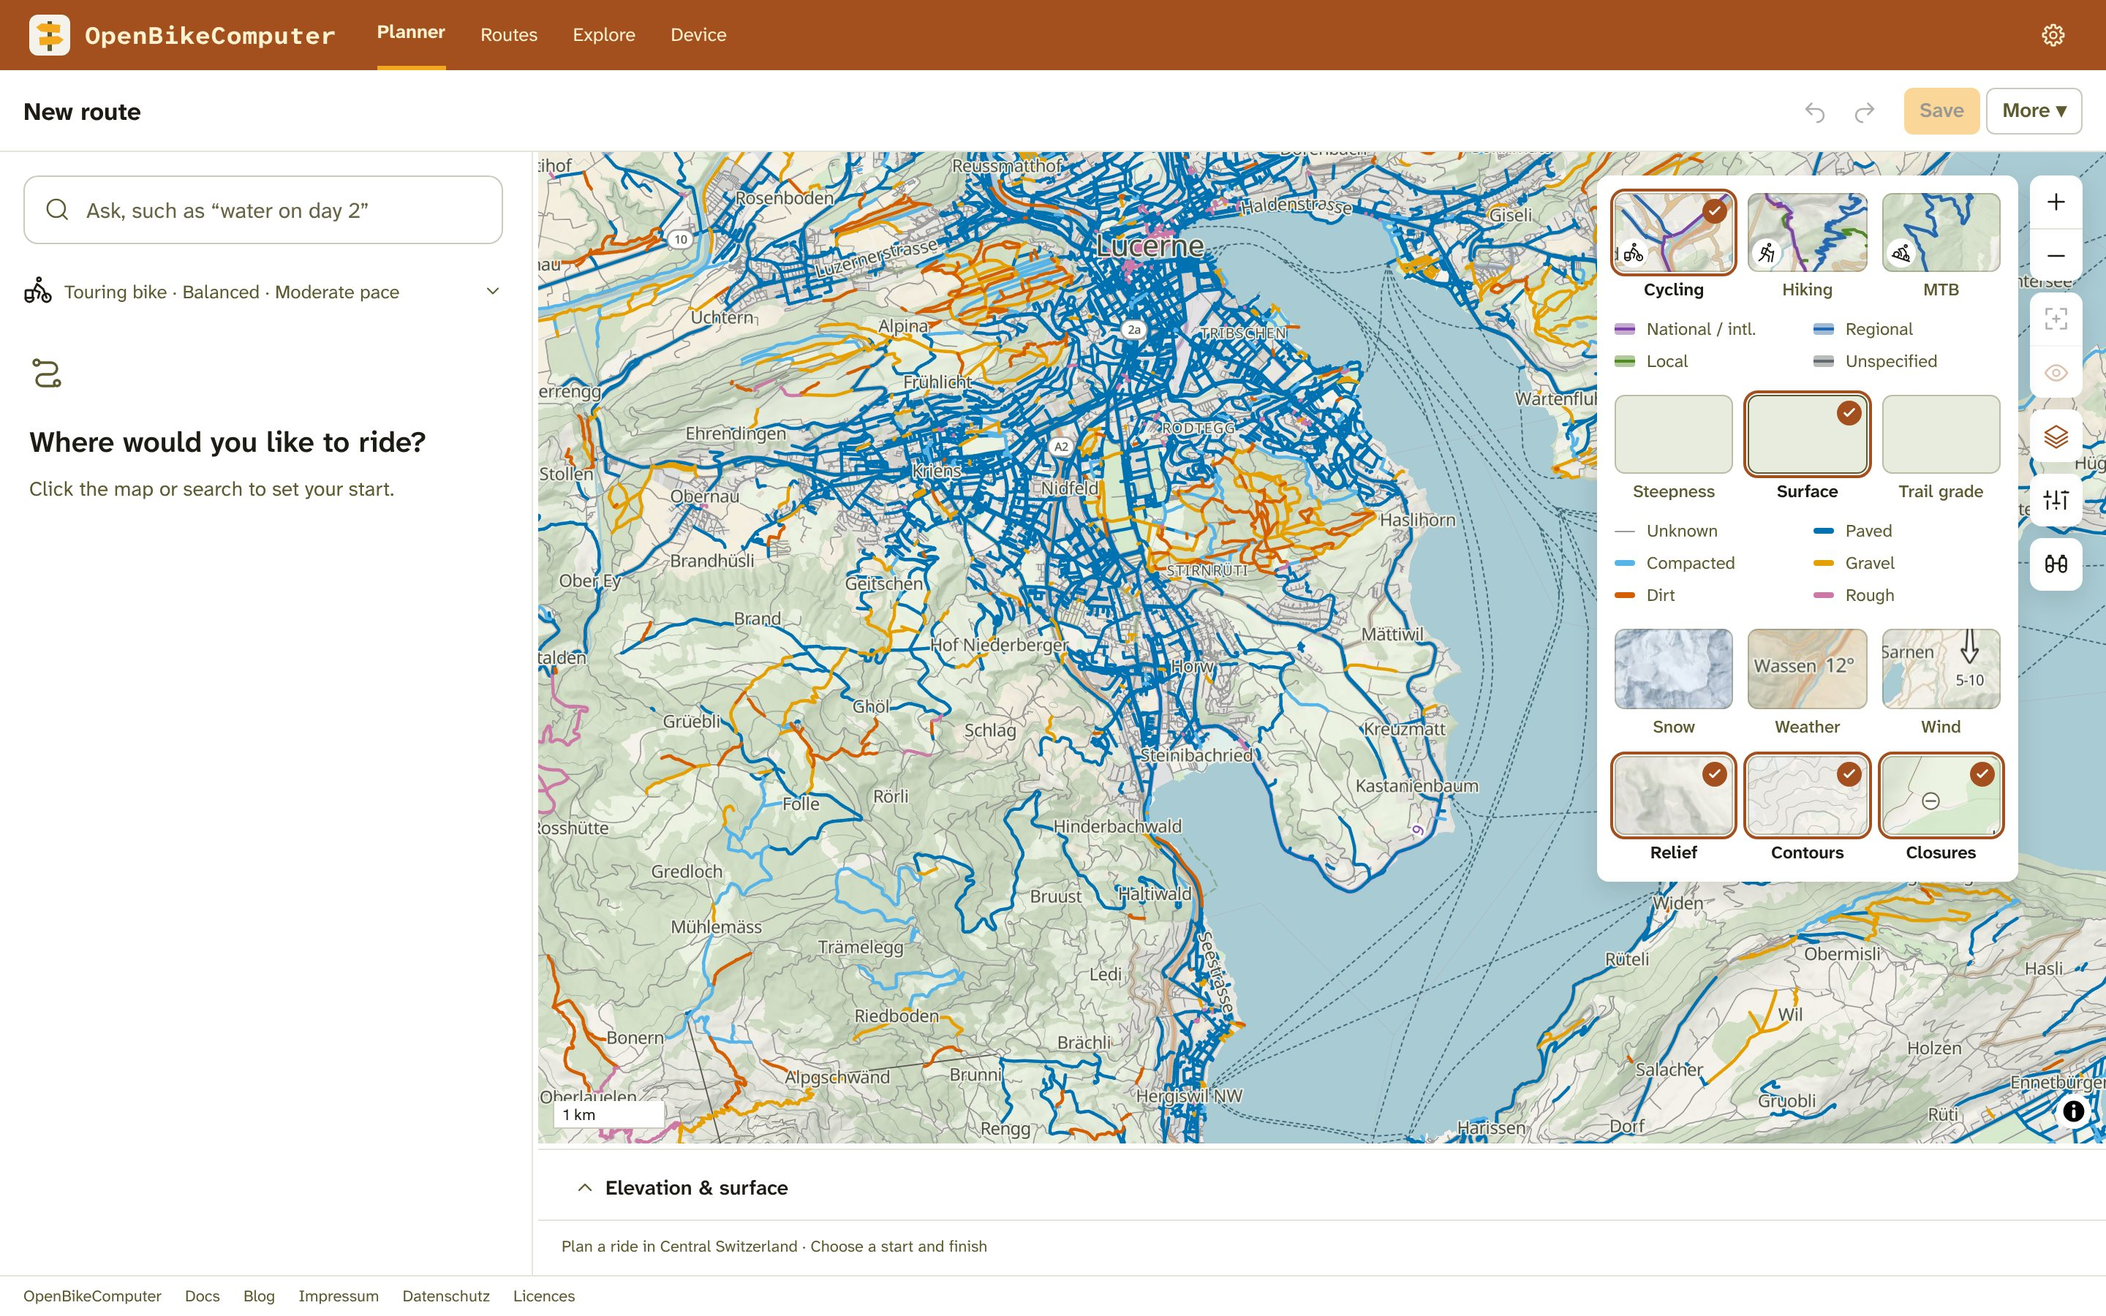
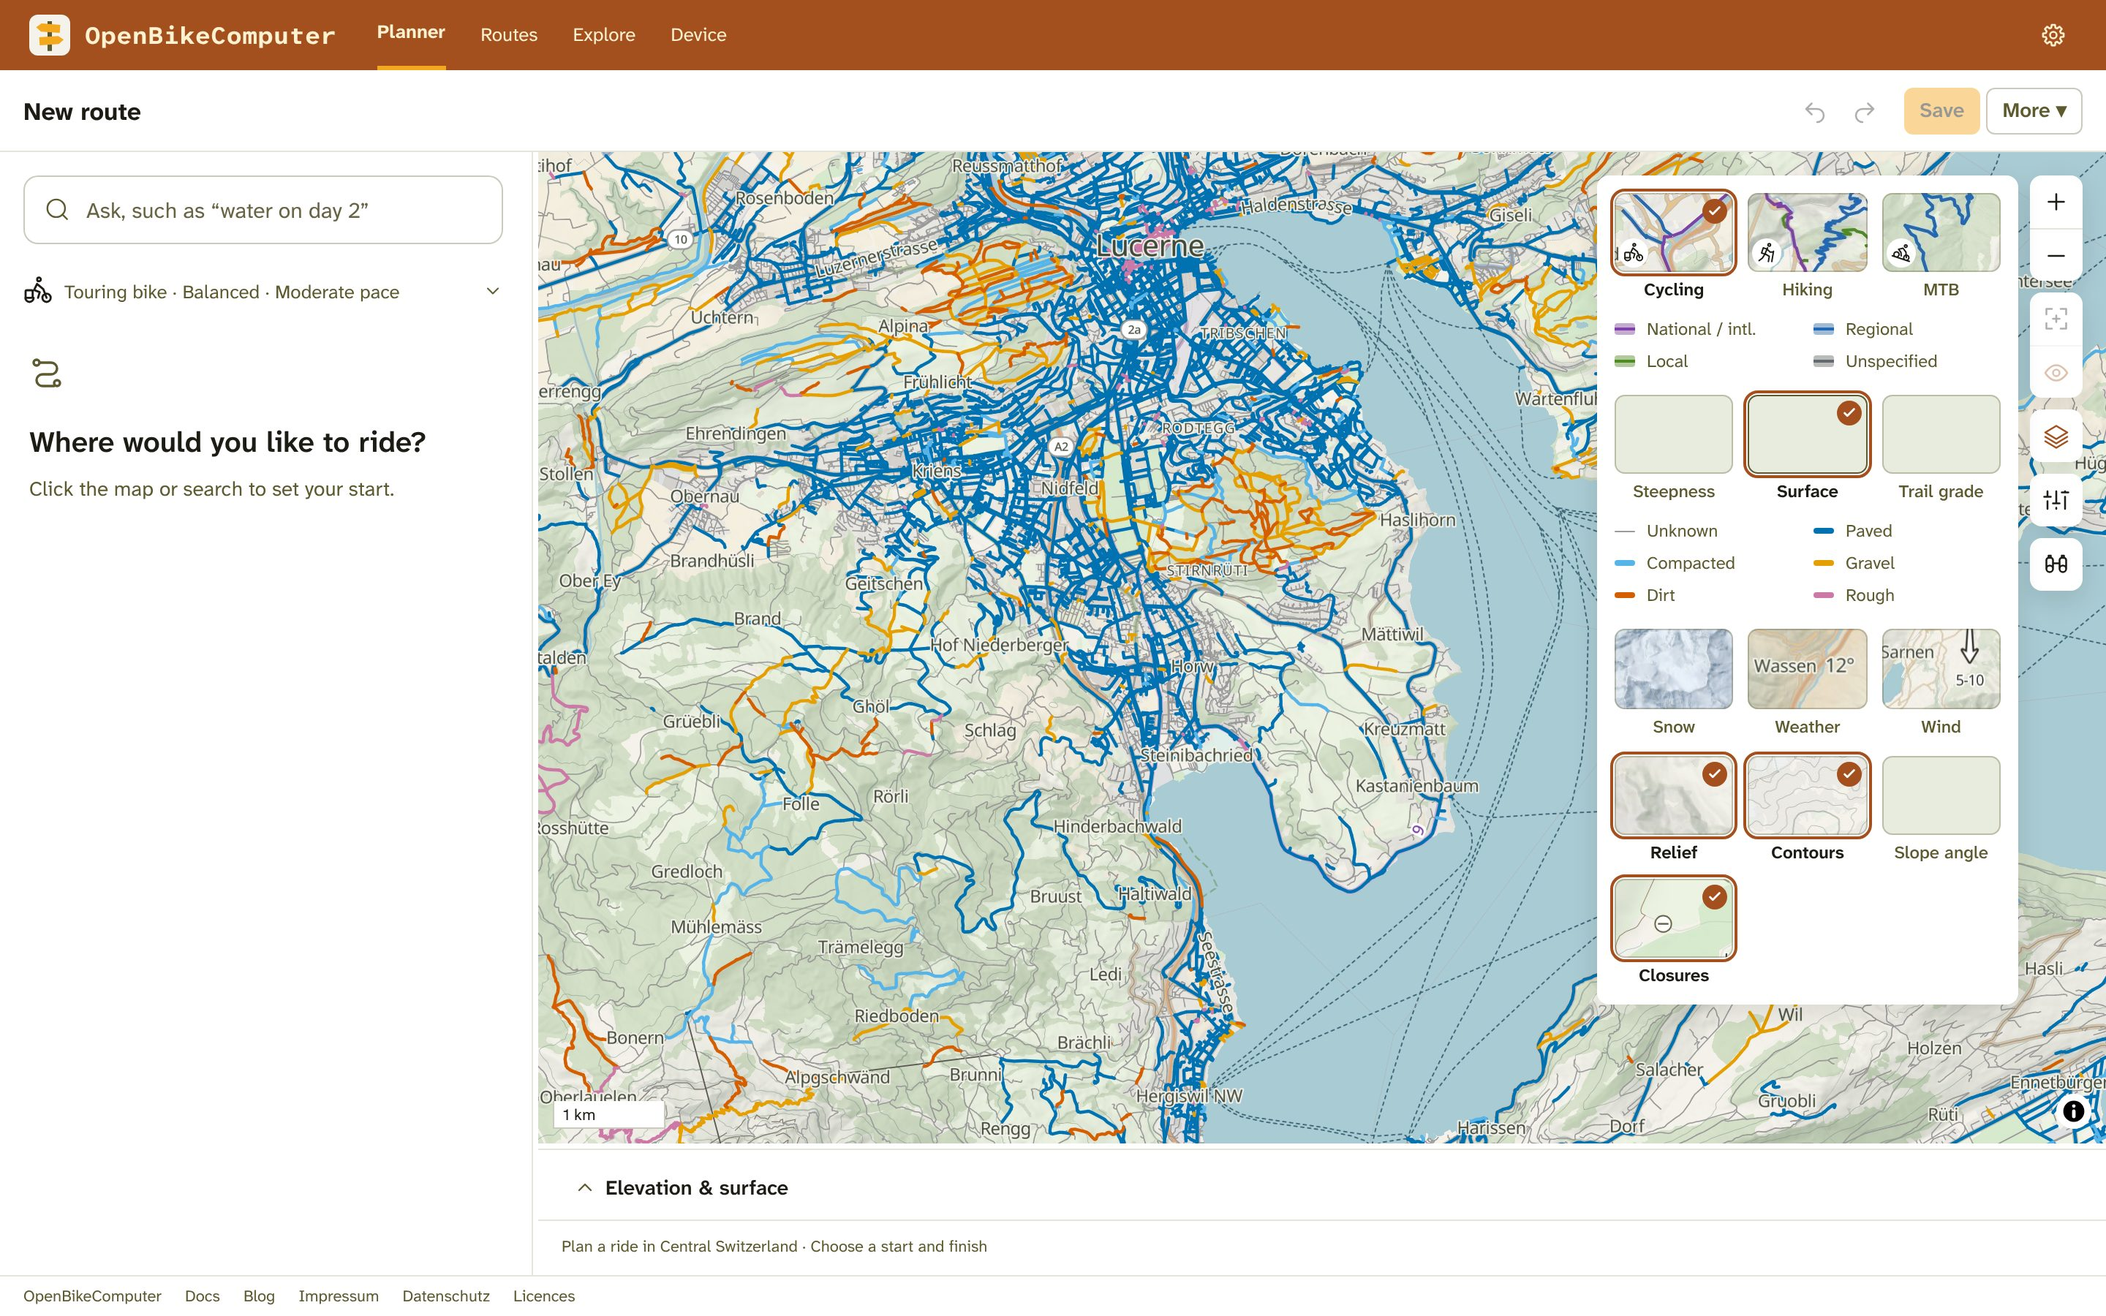
prototype: slope angle of the terrain, and road slope from the release terrain
Both read the planner release's Terrarium tiles at zoom 12 (swissALTI3D in
Switzerland) instead of Copernicus GLO-30.

Claude-Session: https://claude.ai/code/session_01Wqws1c9uQRBGGaaPm62HMf

Changed region(s): [[0.75, 0.6222, 0.9688, 0.7778], [0.9062, 0.56, 0.9688, 0.6222]]

diff --git a/builder/web/src/components/planner/PlannerMap.svelte b/builder/web/src/components/planner/PlannerMap.svelte
@@ -17,7 +17,7 @@
     import { coordinateAt, kilometres, nearestOnScreen, nearestProgress, routeSlice } from "../../lib/planner/geo";
     import type { Coordinate, MapPoint, MapSegment, MapTown } from "../../lib/planner/map-types";
     import { grownHull, span } from "../../lib/planner/town-area";
-    import { syncRoadLayer, type RoadLayer } from "../../lib/planner/road-layers-prototype";
+    import { syncRoadLayer, syncSlopeAngle, type RoadLayer } from "../../lib/planner/road-layers-prototype";
     import type { BikeType } from "../../lib/planner/riding-profiles";
     import { RouteOverlays, type AccessMode, type OverlayOptions, type OverlaySelection, type RouteHint } from "../../lib/planner/route-overlays";
     import type { DataLayer } from "../../lib/planner/layers/data-layer";
@@ -32,7 +32,7 @@
         segments = [], gaps = [], coordinates = [], highlightedLines = [], points = [], selectedId = null, hoveredId = null, callout = null,
         drawing = null, highlightedPlaceIds = [], theme = "light", hillshade = true, contours = true, pickMode = false,
         showRoute = true, hoverProgress = null, center = [8.8, 48.65], zoom = 7,
-        placeKinds = [], highlightedKind = null, mapOverlays = { network: 'none', access: false }, roadLayer = '', bike = 'touring', accessMode = 'cycling', routingPackage, dataLayer, bottomInset = 0,
+        placeKinds = [], highlightedKind = null, mapOverlays = { network: 'none', access: false }, roadLayer = '', slopeAngle = false, bike = 'touring', accessMode = 'cycling', routingPackage, dataLayer, bottomInset = 0,
         lines = [], onPick = null, part = null, week = null, lit = null, towns = [], litStop = null,
         onStopHover, onStopOpen, onEmptyClick, onPointSelect, onPointHover, onPointMove, onPointPreview, onDayEndDrag, onLegClick, onInsert, onDrawn, onPlaceClick, onVisibleRange, onBounds, onRiderMove, onMoveStart, onRouteHover, onDayClick, popup,
     }: {
@@ -56,6 +56,7 @@
         placeKinds?: PlaceCategory[]; highlightedKind?: PlaceCategory | null;
         mapOverlays?: OverlayOptions;
         roadLayer?: RoadLayer | '';
+        slopeAngle?: boolean;
         bike?: BikeType;
         /** The region's data layers, the shown one if any, the layer date, and the shown layer's labels beside the overnight stops. */
         dataLayer?: { layers: DataLayer[]; shown?: DataLayer; date: string; notes?: { coordinate: Coordinate; text: string }[] };
@@ -714,6 +715,7 @@
     $effect(() => { const options = { ...mapOverlays }; const mode = accessMode; if (ready) { overlaySelection = null; overOverlay = false; overlayLayer?.set(options, mode); } });
     $effect(() => { void showRoute; if (ready) syncRouteVisibility(); });
     $effect(() => { const layer = roadLayer, look = theme, profile = bike; if (ready && map) syncRoadLayer(map, layer, look, profile); });
+    $effect(() => { const shown = slopeAngle; void theme; if (ready && map) syncSlopeAngle(map, shown); });
     $effect(() => { void lines; if (ready) (map?.getSource("lines") as GeoJSONSource | undefined)?.setData(linesData()); });
     function syncDataLayer() {
         if (!map || !dataLayer) return;

diff --git a/builder/web/src/components/planner/PlannerApp.svelte b/builder/web/src/components/planner/PlannerApp.svelte
@@ -151,6 +151,7 @@
     // The map shows one data layer at a time; '' shows none.
     let shownLayerId = $state('');
     let roadLayer = $state<RoadLayer | ''>('');
+    let slopeAngle = $state(false);
     const dataLayer = $derived(dataLayers.find(layer => layer.id === shownLayerId));
     let dateBarHeight = $state(0);
     // The layer date follows the trip start until the rider picks another day; it never changes the trip.
@@ -1315,7 +1316,7 @@
                 ondragleave={event => { if (!event.currentTarget.contains(event.relatedTarget as Node | null)) dropping = false; }}>
                 <PlannerMap
                     bind:this={map} {part} {segments} gaps={gaps.map(gap => gap.coordinates)} {coordinates} points={mapPoints} {selectedId} {hoveredId} onPointHover={(id) => hoveredId = id} callout={calloutCoordinate} {drawing}
-                    {theme} {hillshade} {contours} {mapOverlays} {roadLayer} {bike} dataLayer={{ layers: dataLayers, shown: dataLayer, date: shownDate, notes: layerNotes }} bottomInset={dataLayer ? dateBarHeight + 34 : 0} accessMode={trip.bike === 'hiking' ? 'walking' : 'cycling'} {showRoute} {hoverProgress} highlightedLines={highlighted} pickMode={picking} routingPackage={currentRoute?.package}
+                    {theme} {hillshade} {contours} {mapOverlays} {roadLayer} {slopeAngle} {bike} dataLayer={{ layers: dataLayers, shown: dataLayer, date: shownDate, notes: layerNotes }} bottomInset={dataLayer ? dateBarHeight + 34 : 0} accessMode={trip.bike === 'hiking' ? 'walking' : 'cycling'} {showRoute} {hoverProgress} highlightedLines={highlighted} pickMode={picking} routingPackage={currentRoute?.package}
                     onPick={mapMode?.kind === 'look' ? openTrailView : null}
                     highlightedPlaceIds={searching ? results.map(result => result.place.id) : []}
                     placeKinds={placeChoice.kinds} highlightedKind={placeChoice.highlight}
@@ -1365,7 +1366,7 @@
                         <button type="button" disabled={!trip.points.length} onclick={() => focusedDay ? showDay(focusedDay.number) : coordinates.length ? map?.fitRoute() : map?.fitCoordinates(trip.points.map(p => p.coordinate))} aria-label={focusedDay ? `Show day ${focusedDay.number} on map` : 'Show whole route'}><Icon name="fit" /></button>
                         <button type="button" disabled={!hasEndpoints} class:chosen={showRoute} aria-label={showRoute ? 'Hide route' : 'Show route'} aria-pressed={showRoute} onclick={() => showRoute = !showRoute}><Icon name="eye" /></button>
                     </div>
-                    <MapSettings {theme} {dataLayers} bind:shownLayer={shownLayerId} bind:roadLayer {bike} bind:mapOverlays bind:hillshade bind:contours />
+                    <MapSettings {theme} {dataLayers} bind:shownLayer={shownLayerId} bind:roadLayer bind:slopeAngle {bike} bind:mapOverlays bind:hillshade bind:contours />
                     <PlaceKinds />
                     {#if hasTrailView(config)}
                         <div class="control-group">

diff --git a/builder/web/src/components/planner/MapSettings.svelte b/builder/web/src/components/planner/MapSettings.svelte
@@ -3,11 +3,12 @@
     import MapControlPanel from './MapControlPanel.svelte';
     import { bandShare, networkLevels, type OverlayOptions } from '../../lib/planner/route-overlays';
     import type { DataLayer } from '../../lib/planner/layers/data-layer';
-    import { roadLayers, roadLegend, type RoadLayer } from '../../lib/planner/road-layers-prototype';
+    import { roadLayers, roadLegend, slopeAngleLegend, type RoadLayer } from '../../lib/planner/road-layers-prototype';
     import type { BikeType } from '../../lib/planner/riding-profiles';
 
-    let { hillshade = $bindable(), contours = $bindable(), mapOverlays = $bindable(), dataLayers = [], shownLayer = $bindable(''), roadLayer = $bindable(''), bike = 'touring', theme = 'light' }: {
+    let { hillshade = $bindable(), contours = $bindable(), mapOverlays = $bindable(), dataLayers = [], shownLayer = $bindable(''), roadLayer = $bindable(''), slopeAngle = $bindable(false), bike = 'touring', theme = 'light' }: {
         roadLayer?: RoadLayer | '';
+        slopeAngle?: boolean;
         bike?: BikeType;
         /** The data layers of the region; the map shows one or none. */
         dataLayers?: DataLayer[];
@@ -33,6 +34,7 @@
         { label: 'Map', tiles: [
             { id: 'relief', label: 'Relief', on: hillshade, toggle: () => hillshade = !hillshade },
             { id: 'contours', label: 'Contours', on: contours, toggle: () => contours = !contours },
+            { id: 'slope-angle', label: 'Slope angle', on: slopeAngle, toggle: () => slopeAngle = !slopeAngle },
             { id: 'closures', label: 'Closures', on: mapOverlays.access, toggle: () => mapOverlays = { ...mapOverlays, access: !mapOverlays.access } },
         ] },
     ].filter(row => row.tiles.length));
@@ -58,6 +60,11 @@
             {#if i === 0 && mapOverlays.network !== 'none'}
                 <ul class="legend" aria-label="Route network colors" style:--band-share={`${bandShare[theme] * 100}%`}>
                     {#each networkLevels as level (level.rank)}<li title={level.label}><span class="sample" style:color={theme === 'dark' ? level.dark : level.color}></span>{level.rank === 3 ? 'National / intl.' : level.rank === 0 ? 'Unspecified' : level.label}</li>{/each}
+                </ul>
+            {/if}
+            {#if row.label === 'Map' && slopeAngle}
+                <ul class="legend" aria-label="Slope angle colors">
+                    {#each slopeAngleLegend as swatch (swatch.label)}<li><span class="road" style:background={swatch.color} style:height="8px"></span>{swatch.label}</li>{/each}
                 </ul>
             {/if}
             {#if row.label.startsWith('Roads') && roadLayer}

diff --git a/builder/web/src/lib/planner/road-layers-prototype.ts b/builder/web/src/lib/planner/road-layers-prototype.ts
@@ -88,3 +88,24 @@ export function syncRoadLayer(map: Map, layer: RoadLayer | '', theme: Theme, bik
         },
     }, map.getStyle().layers.find(layer => layer.type === 'symbol')?.id);
 }
+
+/** Ski-touring slope classes of `build-data.py --slope-out`; below 30° is clear. */
+export const slopeAngleLegend = [
+    { label: '30–35°', color: '#f2e500' }, { label: '35–40°', color: '#f59600' },
+    { label: '40–45°', color: '#e0001a' }, { label: '> 45°', color: '#8228a0' },
+];
+const slopeId = 'slope-angle-prototype';
+
+/** The slope angle of the terrain, over the relief and under the roads. */
+export async function syncSlopeAngle(map: Map, shown: boolean) {
+    if (map.getLayer(slopeId)) map.removeLayer(slopeId);
+    if (!shown) return;
+    if (!map.getSource(slopeId)) {
+        const url = new URL('slope-angle-prototype.png', location.href).href;
+        const { coordinates } = await (await fetch(`${url}.json`)).json();
+        if (!map.getSource(slopeId)) map.addSource(slopeId, { type: 'image', url, coordinates });
+    }
+    if (map.getLayer(slopeId)) return;
+    map.addLayer({ id: slopeId, type: 'raster', source: slopeId, paint: { 'raster-opacity': 0.55, 'raster-resampling': 'nearest', 'raster-fade-duration': 0 } },
+        map.getStyle().layers.find(layer => layer.id.startsWith('roads_'))?.id);
+}

diff --git a/builder/web/road-layers-prototype/build-data.py b/builder/web/road-layers-prototype/build-data.py
@@ -1,11 +1,13 @@
 """Prototype: one PMTiles archive (layer `roads`, zoom 10 to 14) of every road and path in a box, with slope class, surface class and trail grades.
 
-pip install osmium rasterio numpy shapely mapbox-vector-tile pmtiles
-python3 -I build-data.py --bbox W,S,E,N --dem-dir DIR --out FILE.pmtiles EXTRACT.osm.pbf [MORE.osm.pbf ...]
+pip install osmium rasterio numpy shapely mapbox-vector-tile pmtiles pillow
+python3 -I build-data.py --bbox W,S,E,N --dem-dir DIR --out FILE.pmtiles [--terrain URL --slope-out FILE.png] EXTRACT.osm.pbf [...]
 
-Missing Copernicus GLO-30 tiles for the box are downloaded into --dem-dir.
+The heights come from the planner release's Terrarium tiles at zoom 12 (`--terrain`, a `{z}/{x}/{y}` URL), or else from
+Copernicus GLO-30 tiles, downloaded into --dem-dir. `--slope-out` also writes the slope angle of the terrain as one
+image in Web Mercator, with its corners in FILE.png.json.
 """
-import argparse, gzip, math, os, sys, urllib.request
+import argparse, gzip, json, math, os, subprocess, sys, urllib.request
 import numpy as np
 import osmium
 import rasterio
@@ -13,6 +15,7 @@ import mapbox_vector_tile
 import shapely
 from pmtiles.tile import Compression, TileType, zxy_to_tileid
 from pmtiles.writer import Writer
+from PIL import Image
 
 # planner/router-build/src/source.rs highway_access; motorways carry no bike or foot.
 HIGHWAYS = {"cycleway", "residential", "living_street", "unclassified", "service", "tertiary", "tertiary_link",
@@ -25,6 +28,7 @@ SURFACE = {**dict.fromkeys(["asphalt", "paved", "concrete", "concrete:plates", "
            **dict.fromkeys(["sand", "mud", "rock", "stone", "cobblestone", "sett"], 5)}
 SAC = {"strolling": 0, "hiking": 1, "mountain_hiking": 2, "demanding_mountain_hiking": 3, "alpine_hiking": 4,
        "demanding_alpine_hiking": 5, "difficult_alpine_hiking": 6}
+R = 6378137.0
 SLOPE_BREAKS = [3, 6, 9, 12]  # percent: classes 0..4
 STEP_M, WINDOW_M = 25.0, 100.0
 
@@ -53,6 +57,74 @@ class Dem:
         fc, fr = col - c0, row - r0
         q = data[r0:r0 + 2, c0:c0 + 2]
         return float(q[0, 0] * (1 - fc) * (1 - fr) + q[0, 1] * fc * (1 - fr) + q[1, 0] * (1 - fc) * fr + q[1, 1] * fc * fr)
+
+
+class TerrainTiles:
+    """A mosaic of the Terrarium tiles of one zoom over the box, cached in `directory`."""
+    Z, SIZE = 12, 512
+
+    def __init__(self, template, directory, bbox, margin=0.02):
+        os.makedirs(directory, exist_ok=True)
+        n = 2 ** self.Z
+        tx = lambda lon: int((lon + 180) / 360 * n)
+        ty = lambda lat: int((1 - math.asinh(math.tan(math.radians(lat))) / math.pi) / 2 * n)
+        self.x0, self.y0 = tx(bbox[0] - margin), ty(bbox[3] + margin)
+        x1, y1 = tx(bbox[2] + margin), ty(bbox[1] - margin)
+        rows = []
+        for y in range(self.y0, y1 + 1):
+            row = []
+            for x in range(self.x0, x1 + 1):
+                path = os.path.join(directory, f"{self.Z}-{x}-{y}.webp")
+                if not os.path.exists(path):
+                    subprocess.run(["curl", "-sSf", "-o", path, template.format(z=self.Z, x=x, y=y)], check=True)
+                rgb = np.asarray(Image.open(path).convert("RGB"), dtype=np.float32)
+                row.append(rgb[..., 0] * 256 + rgb[..., 1] + rgb[..., 2] / 256 - 32768)
+            rows.append(np.hstack(row))
+        self.data = np.vstack(rows)
+
+    def pixel(self, lon, lat):
+        n = 2 ** self.Z * self.SIZE
+        return ((lon + 180) / 360 * n - self.x0 * self.SIZE,
+                (1 - math.asinh(math.tan(math.radians(lat))) / math.pi) / 2 * n - self.y0 * self.SIZE)
+
+    def height(self, lon, lat):
+        col, row = self.pixel(lon, lat)
+        col, row = col - 0.5, row - 0.5
+        c0, r0 = int(col), int(row)
+        if not (0 <= c0 < self.data.shape[1] - 1 and 0 <= r0 < self.data.shape[0] - 1):
+            raise KeyError((lon, lat))
+        fc, fr = col - c0, row - r0
+        q = self.data[r0:r0 + 2, c0:c0 + 2]
+        return float(q[0, 0] * (1 - fc) * (1 - fr) + q[0, 1] * fc * (1 - fr) + q[1, 0] * (1 - fc) * fr + q[1, 1] * fc * fr)
+
+    def corners(self):
+        n = 2 ** self.Z
+        lon = lambda x: x / n * 360 - 180
+        lat = lambda y: math.degrees(math.atan(math.sinh(math.pi * (1 - 2 * y / n))))
+        x1, y1 = self.x0 + self.data.shape[1] // self.SIZE, self.y0 + self.data.shape[0] // self.SIZE
+        return [[lon(self.x0), lat(self.y0)], [lon(x1), lat(self.y0)], [lon(x1), lat(y1)], [lon(self.x0), lat(y1)]]
+
+
+# Ski-touring classes: 30-35, 35-40, 40-45, above 45 degrees; below 30 is clear.
+SLOPE_ANGLES = [(30, (242, 229, 0)), (35, (245, 150, 0)), (40, (224, 0, 26)), (45, (130, 40, 160))]
+
+
+def write_slope_angle(terrain, path):
+    rows = np.arange(terrain.data.shape[0]) + 0.5
+    n = 2 ** terrain.Z * terrain.SIZE
+    lat = np.arctan(np.sinh(np.pi * (1 - 2 * (rows + terrain.y0 * terrain.SIZE) / n)))
+    pixel_m = 2 * math.pi * R / n * np.cos(lat)  # ground size of a pixel, by row
+    dz_dy, dz_dx = np.gradient(terrain.data)
+    angle = np.degrees(np.arctan(np.hypot(dz_dx, dz_dy) / pixel_m[:, None]))
+    rgba = np.zeros((*angle.shape, 4), dtype=np.uint8)
+    for limit, color in SLOPE_ANGLES:
+        rgba[angle >= limit] = (*color, 255)
+    Image.fromarray(rgba).save(path, optimize=True)
+    with open(path + ".json", "w") as f:
+        json.dump({"coordinates": terrain.corners()}, f)
+    share = [float((angle >= limit).mean()) for limit, _ in SLOPE_ANGLES]
+    print(f"{path}: {rgba.shape[1]}x{rgba.shape[0]} px, {os.path.getsize(path) / 1e6:.1f} MB; share of ground at or above "
+          + ", ".join(f"{limit}\u00b0 {v:.1%}" for (limit, _), v in zip(SLOPE_ANGLES, share)), file=sys.stderr)
 
 
 def metres(a, b):
@@ -119,12 +191,16 @@ def main():
     p = argparse.ArgumentParser()
     p.add_argument("--bbox", required=True)
     p.add_argument("--dem-dir", required=True)
+    p.add_argument("--terrain")
+    p.add_argument("--slope-out")
     p.add_argument("--out", required=True)
     p.add_argument("extracts", nargs="+")
     args = p.parse_args()
     bbox = [float(v) for v in args.bbox.split(",")]
     w, s, e, n = bbox
-    dem = Dem(args.dem_dir, bbox)
+    dem = TerrainTiles(args.terrain, args.dem_dir, bbox) if args.terrain else Dem(args.dem_dir, bbox)
+    if args.slope_out:
+        write_slope_angle(dem, args.slope_out)
     seen, features = set(), []
     for extract in args.extracts:
         for way in osmium.FileProcessor(extract, osmium.osm.NODE | osmium.osm.WAY).with_locations():
@@ -152,7 +228,6 @@ def main():
     write_tiles(features, bbox, args.out)
 
 
-R = 6378137.0
 def mercator(lonlat):
     lon, lat = lonlat[:, 0], lonlat[:, 1]
     return np.column_stack([np.radians(lon) * R, np.log(np.tan(np.pi / 4 + np.radians(lat) / 2)) * R])
